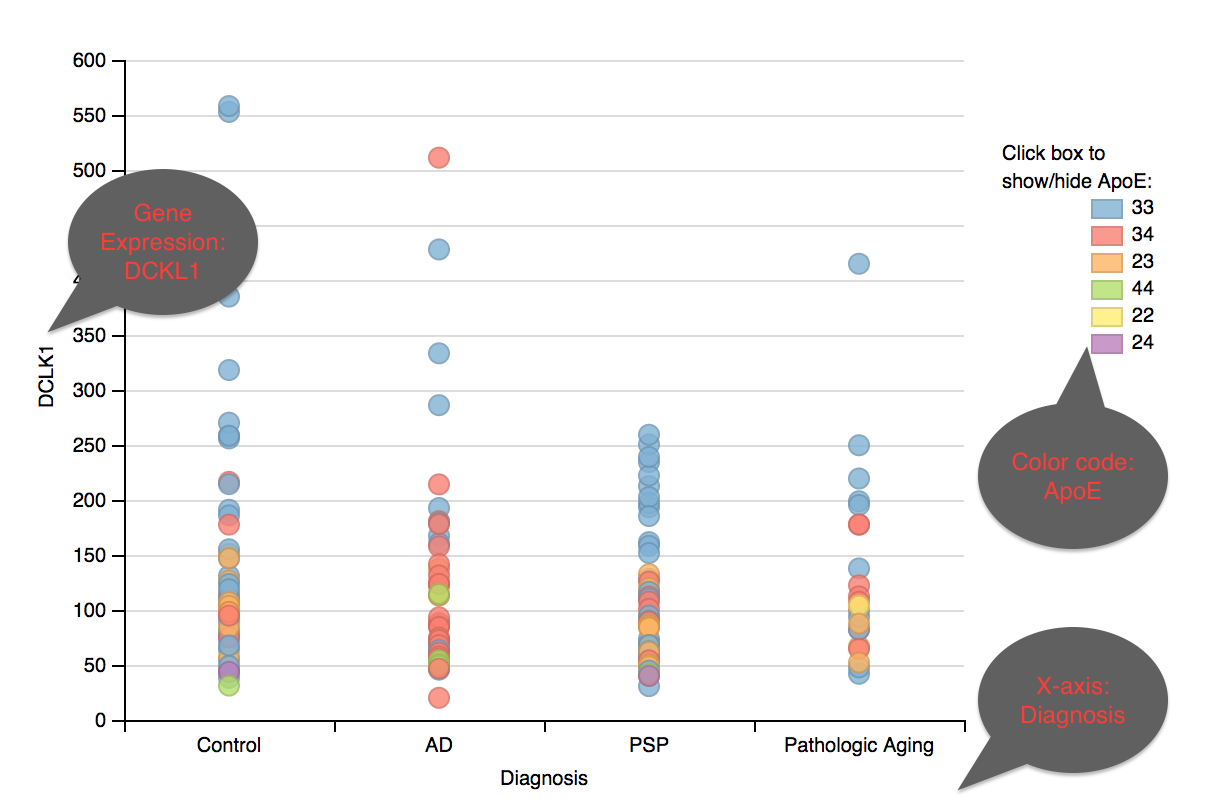
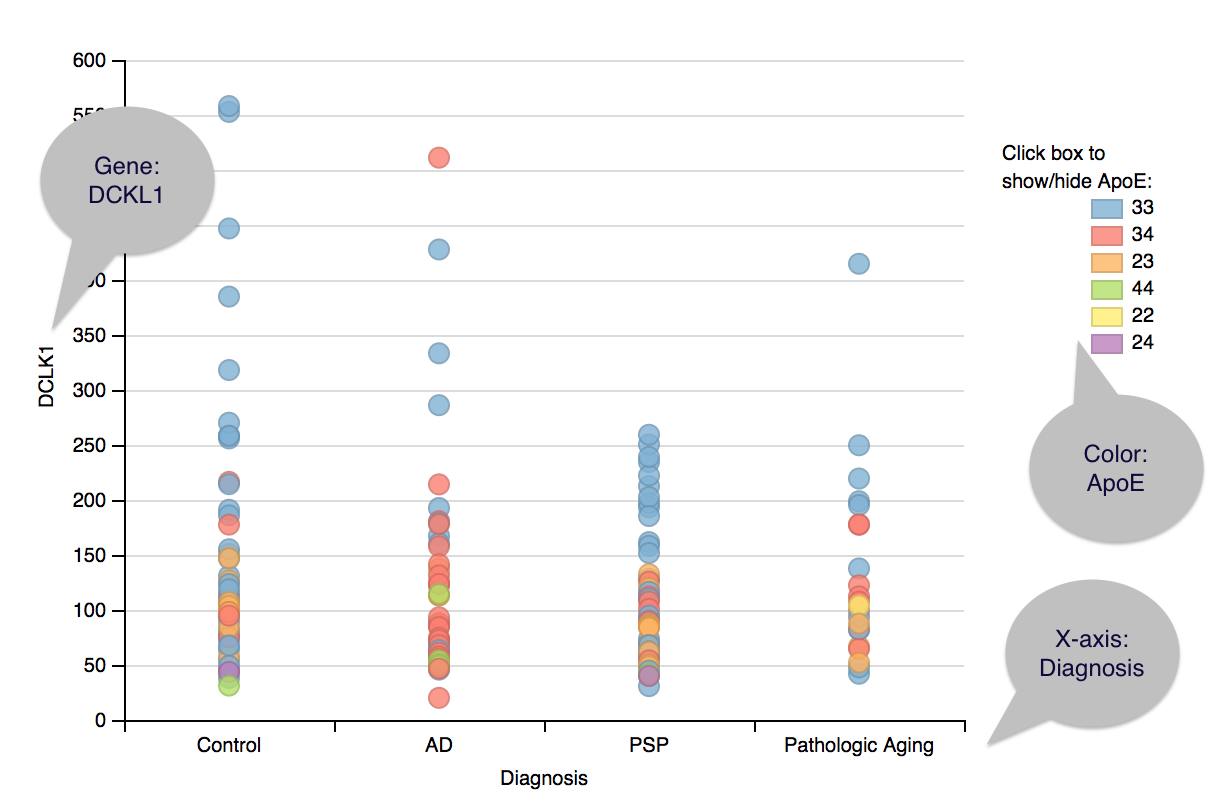
Updates to scatterplot form, theming to add padding below Submit button, and updates to annotated result image.

Changed region(s): [[0.0309, 0.1244, 0.2163, 0.4353], [0.7724, 0.7152, 0.9577, 0.995], [0.7724, 0.4353, 0.9886, 0.6841]]

diff --git a/sites/all/themes/scf_theme/css/global.css b/sites/all/themes/scf_theme/css/global.css
@@ -1871,7 +1871,8 @@ ul.bef-tree-child.bef-tree-depth-2 {
     margin-bottom: -.6em;
 }
 
-#bubblechart-form {
+#bubblechart-form,
+#scatterplot-form {
   padding-bottom: 25px;
 }
 
